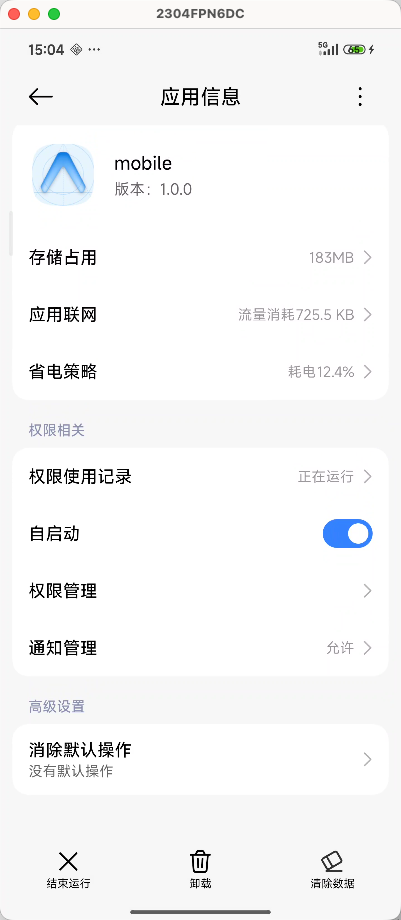
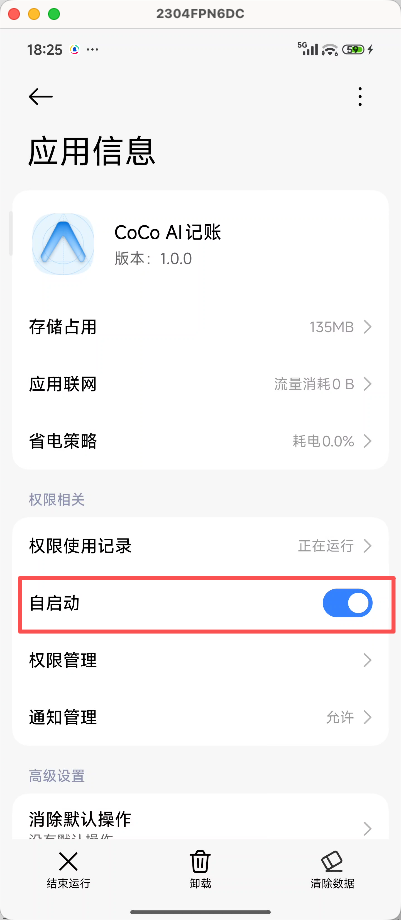
chore(mobile): 更新引导页截图，添加详细步骤参考图

diff --git a/apps/mobile/app/(tabs)/auto-guide.tsx b/apps/mobile/app/(tabs)/auto-guide.tsx
@@ -20,11 +20,17 @@ import {
 } from "../../lib/auto-bookkeeping/brand-detection";
 
 // eslint-disable-next-line @typescript-eslint/no-var-requires
-const guideNotifListener = require("../../assets/guides/notif-listener.png");
+const guideNotifListener1 = require("../../assets/guides/notif-listener-1.png");
+// eslint-disable-next-line @typescript-eslint/no-var-requires
+const guideNotifListener2 = require("../../assets/guides/notif-listener-2.png");
 // eslint-disable-next-line @typescript-eslint/no-var-requires
 const guideNotifMain = require("../../assets/guides/notif-main.png");
 // eslint-disable-next-line @typescript-eslint/no-var-requires
-const guideNotifChannel = require("../../assets/guides/notif-channel.png");
+const guideNotifChannel1 = require("../../assets/guides/notif-channel-1.png");
+// eslint-disable-next-line @typescript-eslint/no-var-requires
+const guideNotifChannel2 = require("../../assets/guides/notif-channel-2.png");
+// eslint-disable-next-line @typescript-eslint/no-var-requires
+const guideNotifChannel3 = require("../../assets/guides/notif-channel-3.png");
 // eslint-disable-next-line @typescript-eslint/no-var-requires
 const guideAutoStart = require("../../assets/guides/app-autostart.png");
 // eslint-disable-next-line @typescript-eslint/no-var-requires
@@ -204,8 +210,12 @@ export default function AutoBookkeepingScreen() {
             允许 CoCo 读取微信和支付宝的支付通知，用于自动识别金额
           </AppText>
           <GuideImage
-            source={guideNotifListener}
-            label="参考：开启通知使用权（小米手机）"
+            source={guideNotifListener1}
+            label="参考：找到 CoCo AI记账（小米手机）"
+          />
+          <GuideImage
+            source={guideNotifListener2}
+            label="参考：确认授权（小米手机）"
           />
         </SetupStep>
 
@@ -224,11 +234,25 @@ export default function AutoBookkeepingScreen() {
             label="参考：通知主设置（小米手机）"
           />
           <AppText size="base" color={colors.textLight} style={styles.stepDesc}>
-            进入「自动记账」通知渠道，开启「悬浮通知」
+            进入底部「自动记账」通知类别
           </AppText>
           <GuideImage
-            source={guideNotifChannel}
-            label="参考：自动记账渠道设置（小米手机）"
+            source={guideNotifChannel1}
+            label="参考：找到自动记账通道（小米手机）"
+          />
+          <AppText size="base" color={colors.textLight} style={styles.stepDesc}>
+            开启「允许通知」和「悬浮通知」
+          </AppText>
+          <GuideImage
+            source={guideNotifChannel2}
+            label="参考：自动记账通知设置（小米手机）"
+          />
+          <AppText size="base" color={colors.textLight} style={styles.stepDesc}>
+            锁屏显示选择「显示通知及其内容」
+          </AppText>
+          <GuideImage
+            source={guideNotifChannel3}
+            label="参考：锁屏通知显示规则（小米手机）"
           />
         </SetupStep>
 
